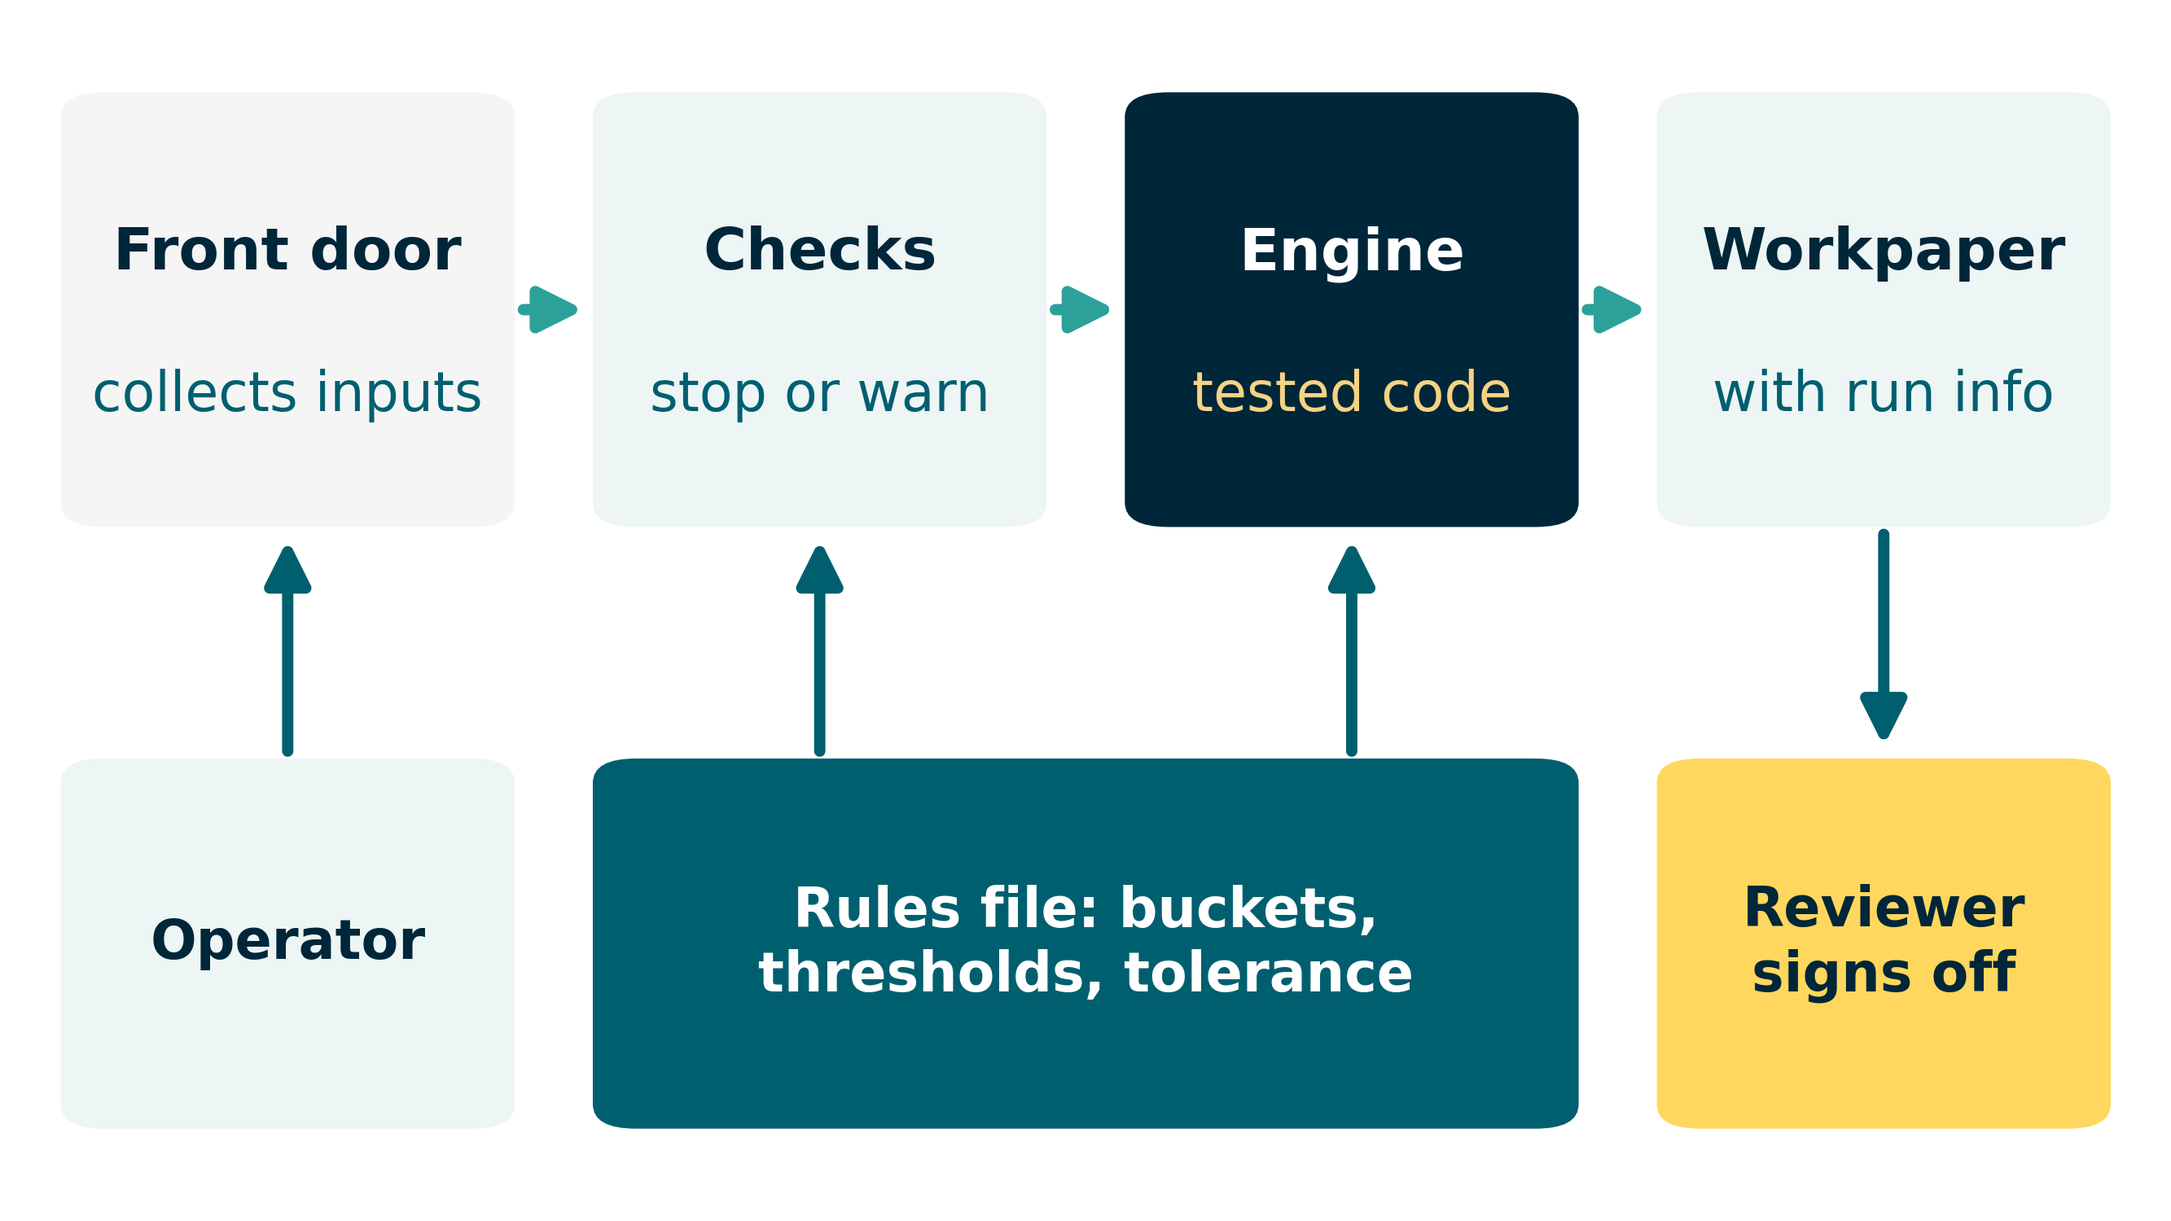
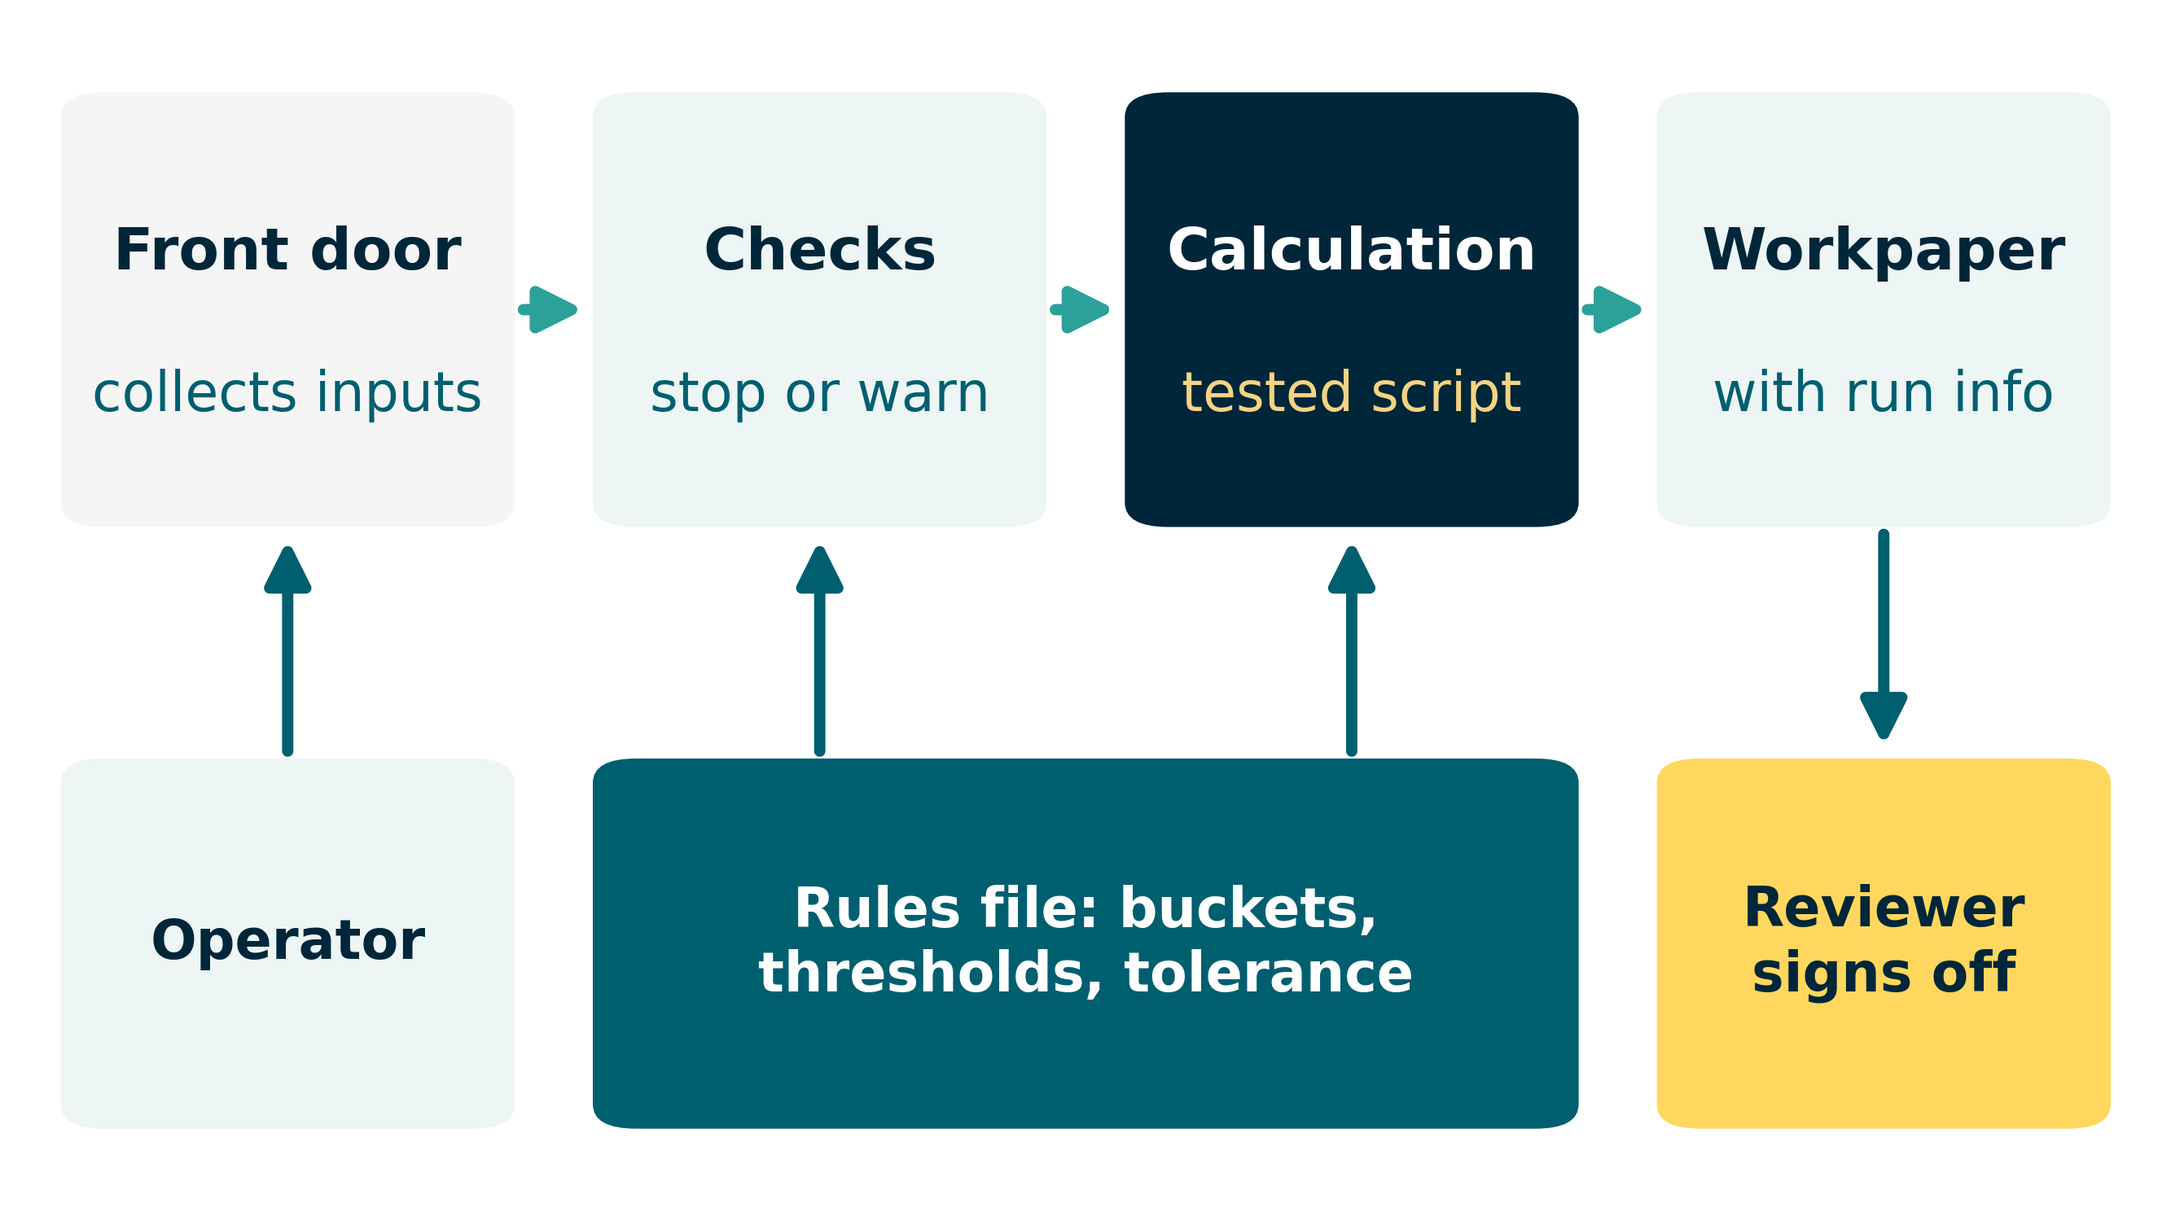
Article 46: appendix review edits
- Rename engine to calculation script (prose, lab brief, architecture visual)
- Simplify the calculation script section with steps and tables
- Add builder note on describing the outcome to the co-pilot and drafting the IT email
- Add Excel output skill tip (formatting, formulas for totals)
- Simplify rules versioning and fingerprint wording; reword cutoff cases
- Final grammar and consistency pass

Changed region(s): [[0.5293, 0.184, 0.7161, 0.2453], [0.5293, 0.3067, 0.7161, 0.3373]]

diff --git a/articles/46-team-ready-workflows/generate_visuals.py b/articles/46-team-ready-workflows/generate_visuals.py
@@ -254,7 +254,7 @@ def draw_operator_journey(ax, top, bottom):
 LAYERS = [
     ("Front door", "collects inputs", LIGHT_GRAY, DEEP_NAVY, OCEAN_TEAL),
     ("Checks", "stop or warn", TEAL_TINT, DEEP_NAVY, OCEAN_TEAL),
-    ("Engine", "tested code", DEEP_NAVY, WHITE, WARM_GLOW),
+    ("Calculation", "tested script", DEEP_NAVY, WHITE, WARM_GLOW),
     ("Workpaper", "with run info", TEAL_TINT, DEEP_NAVY, OCEAN_TEAL),
 ]
 

diff --git a/articles/46-team-ready-workflows/technical-appendix.md b/articles/46-team-ready-workflows/technical-appendix.md
@@ -1,6 +1,6 @@
 # Team-Ready Workflows: The Technical Appendix
 
-*The technical appendix for _I Built the Workflow. Now How Does My Team Use It?_: the architecture, the three kinds of front door, the input contract, evidence and review, packaging, maintenance, and an operator acceptance test*
+*The technical appendix for _I Built the Workflow. Now How Does My Team Use It?_: the architecture, the three kinds of front door, the input contract, evidence and review, packaging, maintenance, and a handoff test*
 
 ---
 
@@ -11,7 +11,13 @@
 
 This page is for readers who want to build an operator-friendly front door for a workflow of their own, or review one someone else built. [The article](./README.md) stands on its own; nothing here changes its argument. Think of this as the workpapers behind the memo.
 
-> **Part of a PythonMuse Lab.** [The article](./README.md) is the *Understand* layer. This appendix is *Implement*. A companion demo is coming as the *Experiment*: a small, tested AR aging review with synthetic data, two front doors, and one engine. The sections below describe that demo; the screenshots and figures come from it.
+> **Part of a PythonMuse Lab.** [The article](./README.md) is the *Understand* layer. This appendix is *Implement*. A companion demo is coming as the *Experiment*: a small, tested AR aging review with synthetic data, two front doors, and one calculation script. The sections below describe that demo; the screenshots and figures come from it.
+
+> **A note on tools:** Even as a builder, you don't need to memorize anything on this page. It's here so you understand what a good handoff contains and can recognize one when you see it. When you build with an AI co-pilot, you don't have to pick the interface toolkit or design the architecture yourself. Describe the finished product in detail, and who will use it, and let the co-pilot propose how to get there. Be especially clear that the people running it won't have an AI harness (the workspace, such as Visual Studio Code, where a builder works with AI, files, and scripts) installed, and may not have a license for an AI model at all. For example:
+>
+> *"Build a simple front door for this tested AR aging workflow. The people running it are AR specialists who don't have Visual Studio Code or any AI tool installed and don't have a license for an AI model. They should pick the as-of date and the export file, see plain-English checks, and only be able to run when nothing is red. The output is an Excel workpaper with the aging, the exceptions, the reconciliation, and a record of which file and rules produced it. Don't change the calculation scripts. Before you build anything, explain your recommended approach and what IT would need to install."*
+>
+> Then use the sections below to review what it proposes. And once the front door works, ask your co-pilot for one more thing: a short email to IT listing the minimum software the operators' machines need to run it (for example, the Python version and the packages it relies on), where the files should live, and who needs access. You review it, correct anything that doesn't match your environment, and send it yourself. IT gets a clear request instead of a mystery, and you get a record of what was approved.
 
 A few terms used throughout:
 
@@ -36,13 +42,13 @@ A few terms used throughout:
 
 ## 2. The Architecture in One Picture
 
-<p align="center"><img src="./visuals/46_architecture.png" alt="Front door, checks, engine, and workpaper in a row. Below them, the operator feeds the front door, a rules file of buckets, thresholds, and tolerance feeds the checks and the engine, and the workpaper goes to a reviewer who signs off" width="430"></p>
+<p align="center"><img src="./visuals/46_architecture.png" alt="Front door, checks, calculation, and workpaper in a row. Below them, the operator feeds the front door, a rules file of buckets, thresholds, and tolerance feeds the checks and the calculation script, and the workpaper goes to a reviewer who signs off" width="430"></p>
 
-The flow is: **front door → checks → engine → workpaper → review**, with the accounting rules in a separate **rules file** that the checks and the engine read.
+The flow is: **front door → checks → calculation → workpaper → review**, with the accounting rules in a separate **rules file** that the checks and the calculation script read.
 
 - **Front door:** collects only approved inputs (as-of date, file, control balance, the operator's name). It contains no accounting logic.
 - **Checks (validation):** decide whether the file may be run at all.
-- **Engine:** performs the calculation. It knows nothing about windows or buttons.
+- **Calculation script:** performs the calculation. This is what the article calls "the tested scripts," and it is deterministic. It knows nothing about windows or buttons.
 - **Workpaper:** the output, with the evidence of what produced it.
 - **Review:** a person, independent of the operator.
 
@@ -85,12 +91,12 @@ The input contract is the list of conditions a file must meet before the workflo
 | No invoice is dated after the as-of date | Blocks | Usually the wrong period's export |
 | Every line has a due date | Warns; the line is listed and not aged | An undated invoice can't be aged, but the rest of the file can |
 | No line has a credit balance | Warns; the line is listed | Credits may be real (unapplied cash) or errors |
-| The file is identical to any earlier run for the same as-of date | Blocks if it differs | A changed file for a closed period needs an explanation, not a quiet re-run |
+| If this as-of date was already run, the file is the same one used then | Blocks if it differs | A changed file for a closed period needs an explanation, not a quiet re-run |
 | A control balance was entered | Warns if missing | Without it, the run can't reconcile |
 
 <p align="center"><img src="./visuals/46_demo_desktop_stop.png" alt="The demo's desktop window stopping on a file whose columns were renamed, with Run analysis greyed out" width="430"></p>
 
-The synthetic sample data seeds each of these on purpose: a duplicate invoice ID, a schema break, last month's file, a hand-edited amount, a missing due date, and a credit. You can read the [synthetic October input file](./data/AR_Open_Items_2026-10-31.csv) now; it opens or downloads from the link.
+The synthetic sample files include these problems on purpose: a duplicate invoice ID, a schema break, last month's file, a hand-edited amount, a missing due date, and a credit. You can read the [synthetic October input file](./data/AR_Open_Items_2026-10-31.csv) now; it opens or downloads from the link.
 
 ---
 
@@ -99,20 +105,48 @@ The synthetic sample data seeds each of these on purpose: a duplicate invoice ID
 The rules live in a small, plain-text configuration file in YAML (a human-readable settings format), not in the code and not in the interface. In the demo it holds the aging buckets (Current, 1-30, 31-60, 61-90, Over 90 days past due), the exception thresholds (more than 90 days past due; a customer balance above 25,000.00), the reconciliation tolerance (0.00), the file-name pattern, and the approved input folder. All values are illustrative only, not a recommendation.
 
 - **Who can change it:** the maintainer, after the rules owner (typically the controller) approves.
-- **How changes are recorded:** every change gets a new rules version. The version, plus a SHA-256 fingerprint of the file, prints on every workpaper. (A SHA-256 fingerprint is a 64-character code calculated from a file's exact contents; change one character and the code changes completely. It identifies a file without revealing what is in it.)
+- **How changes are recorded:** every change gets a new rules version number, and that version prints on every workpaper, so a reviewer can see exactly which rules produced the result.
 - **Operators never edit it.** If an operator is asked to change a threshold, that's an escalation, not a task.
 
 ---
 
-## 6. Calculation Engine
+## 6. The Calculation Script
 
-The engine ages each open item by **days past due** on the as-of date (as-of date minus due date), assigns it to a bucket, totals each bucket, each customer, and the file, lists exceptions using the thresholds in the rules file, and reconciles the aging total to the AR control balance.
+The calculation script does five things, in this order:
 
-Boundaries are where rules quietly go wrong, so the demo pins them down and tests each one: a line due *on* the as-of date is Current; exactly 30 days is 1-30 and 31 days is 31-60; exactly 90 days is 61-90 and is **not** an exception, while 91 days is. A customer at exactly 25,000.00 is not flagged; 25,000.01 is.
+1. **Ages each open item.** Days past due = the as-of date minus the due date.
+2. **Assigns each item to a bucket** (Current, 1-30, 31-60, 61-90, Over 90).
+3. **Totals** each bucket, each customer, and the whole file.
+4. **Lists exceptions** using the thresholds in the rules file.
+5. **Reconciles** the aging total to the AR control balance.
 
-For the October sample, the expected answers were calculated by hand, line by line, before any test was written: 15 lines, 7 customers, a total of 60,490.75 (Current 27,750.00; 1-30 days 14,000.00; 31-60 days 7,350.50; 61-90 days 6,575.25; Over 90 days 4,175.00; no due date 640.00), and six exceptions. The tests check the code against those numbers, not against whatever the code happened to produce.
+The script lists items for a person to review. It makes no collection, reserve, or write-off decisions.
 
-The engine lists items for a person. It makes no collection, reserve, or write-off decisions.
+**The exact cutoff days and amounts are where rules quietly go wrong,** so the demo tests each one on purpose:
+
+| Case | Result |
+|---|---|
+| Due *on* the as-of date (0 days past due) | Current |
+| Exactly 30 days past due | 1-30 bucket |
+| 31 days past due | 31-60 bucket |
+| Exactly 90 days past due | 61-90 bucket, **not** an exception |
+| 91 days past due | Over 90 bucket, an exception |
+| Customer balance of exactly 25,000.00 | Not flagged |
+| Customer balance of 25,000.01 | Flagged |
+
+**Known answers.** For the October sample file, the expected results were calculated by hand, line by line, *before* any test was written. The tests check the code against those numbers, not against whatever the code happened to produce.
+
+| Bucket | Expected total |
+|---|---|
+| Current | 27,750.00 |
+| 1-30 days | 14,000.00 |
+| 31-60 days | 7,350.50 |
+| 61-90 days | 6,575.25 |
+| Over 90 days | 4,175.00 |
+| No due date | 640.00 |
+| **File total** | **60,490.75** |
+
+The file has 15 lines, 7 customers, and 6 exceptions.
 
 ---
 
@@ -126,11 +160,20 @@ Each run writes an Excel workpaper with seven sheets:
 - **Validation:** every check and its result.
 - **Detail:** every line with its days past due and bucket, for spot-checking unflagged items.
 - **By Customer:** aging by customer.
-- **Run Info:** run ID, timestamp, as-of date, operator, input file name and SHA-256 fingerprint, rules version and fingerprint, code version, status, and blank sign-off fields.
+- **Run Info:** run ID, timestamp, as-of date, operator, input file name and fingerprint, rules version and fingerprint, code version, status, and blank sign-off fields. (A fingerprint is a short code calculated from a file's exact contents; change one character and the code changes. It proves which file was used without revealing what's in it.)
 
 **No silent overwrites.** Each run gets a new numbered file (`run01`, `run02`), and an existing workpaper is never replaced. Every completed run, including ones that don't reconcile, adds a line to an append-only run log, which serves as the output manifest. The log stores the input file's fingerprint, not the data itself.
 
 **Status is explicit.** A run ends as *checks passed, ready for review*; *reconciliation difference, stop and escalate*; or *no control total, reconcile before review*. A blocked file produces nothing at all.
+
+**Tip: write the Excel formatting rules down once, as a reusable skill.** When you design the workpaper, ask your co-pilot to help you create a [skill](../15-ai-and-excel-files/README.md#what-is-a-skill-for-excel) (a saved set of written instructions the co-pilot follows every time) that defines how every Excel output should look, so each workpaper from every workflow looks and behaves the same. Useful things to put in it:
+
+- **Headers:** font, fill color, bold, frozen header row, and column widths that fit the content.
+- **Amounts:** thousands separator, two decimals, no dollar sign, and a consistent way to show negatives. Decide once, and the whole team reads every workpaper the same way.
+- **Calculated cells as Excel formulas, not pasted values.** Totals, subtotals, differences, and anything else that is a calculation should be exported as a live formula, such as `=SUM(...)`. A column of pasted numbers looks the same but can't be traced; a reviewer can click a formula and see exactly which cells it adds up. I learned this the hard way: with pasted totals, the reviewer has to re-add every column by hand to prove it ties.
+- **Plain numbers and dates:** store amounts as numbers and dates as dates, never as text, so sorting, filtering, and formulas work.
+
+Keep one rule in mind: formulas help the reviewer see how a figure was built, but the control total still comes from outside the workpaper, so the reconciliation still ties to the general ledger and not just to itself.
 
 ---
 
@@ -144,7 +187,7 @@ The reviewer, who should be independent of the operator, looks at:
 4. **A sample of unflagged items.** The exceptions list only shows what the rules were told to find. Pick a few lines from different buckets on the Detail sheet and trace them to the source. In the demo, INV-10007 sits at exactly 90 days, one day short of the flag, and is a good test of whether anyone looks beyond the list.
 5. **The run information.** The right as-of date, the expected rules version, and a fingerprint that matches the approved export.
 
-Sign-off is recorded in the *Reviewed by*, *Review date*, and *Reviewer conclusion* fields on the Run Info sheet, or in your team's usual review record. The companion demo includes a one-page operator guide with the same checks from the operator's side, including when to stop and escalate.
+Sign-off is recorded in the *Reviewed by*, *Review date*, and *Reviewer conclusion* fields on the Run Info sheet, or in your team's usual review record. The companion demo will include a one-page operator guide with the same checks from the operator's side, including when to stop and escalate.
 
 A green check means the configured checks passed. It does not mean the accounting conclusions are correct.
 
@@ -172,7 +215,7 @@ A green check means the configured checks passed. It does not mean the accountin
 
 ## 11. Where AI Fits (and Where It Doesn't)
 
-An AI co-pilot helped design, build, and test every part of this: the validation rules, the engine, the workpaper, both front doors, the sample data, and the tests. It can keep helping with maintenance: explaining a failing test, drafting a rules change for review, or adding a new check when the export changes.
+An AI co-pilot helped design, build, and test every part of this: the validation rules, the calculation script, the workpaper, both front doors, the sample data, and the tests. It can keep helping with maintenance: explaining a failing test, drafting a rules change for review, or adding a new check when the export changes.
 
 At runtime, no model is needed. The aging is arithmetic and the checks are rules, so deterministic code is cheaper, faster, repeatable, and easier to review. If a future version did add a model at runtime (for example, to draft a summary of the exceptions for the reviewer), the design question would be the one from [AI Helped Me Build It. AI Does Not Have to Run It.](../42-ai-helped-me-build-it/README.md): what is the risk, what is the control, and where does a person check the output before anyone relies on it?
 

diff --git a/articles/46-team-ready-workflows/lab-brief.md b/articles/46-team-ready-workflows/lab-brief.md
@@ -16,7 +16,7 @@ Mixed: builders (accountants who have built a workflow with an AI co-pilot), ope
 After this Lab, the reader can:
 1. Understand why separating the builder from the operator matters, and why the operator should not review their own run.
 2. Recognize what an operator must validate after a run (tie to the control balance, customer count, credits and missing due dates, a sample of unflagged items), and that a green check is not a sign-off.
-3. Optionally, run and adapt a tested AR aging demo with two front doors sharing one engine.
+3. Optionally, run and adapt a tested AR aging demo with two front doors sharing one calculation script.
 
 ## The one accounting task and the one concept it proves
 - **Task:** month-end accounts receivable aging and exception review.
